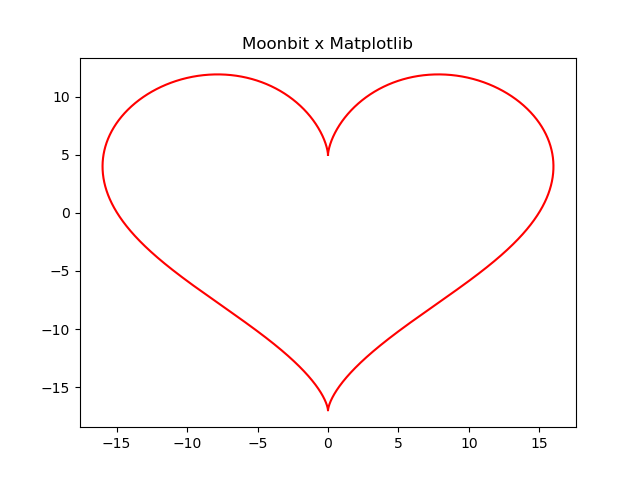
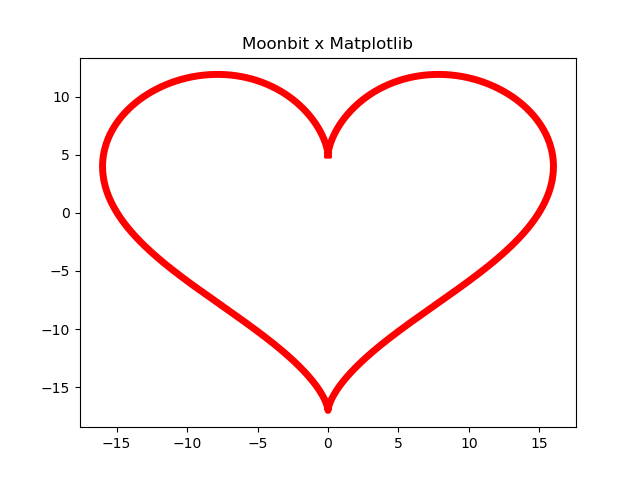
update README

diff --git a/README.md b/README.md
@@ -153,13 +153,19 @@ fn main {
   let xs = t.map(fn (t) {16.0 * @math.sin(t) * @math.sin(t) * @math.sin(t)})
   let ys = t.map(fn (t) {13.0 * @math.cos(t) - 5.0 * @math.cos(2.0 * t) - 2.0 * @math.cos(3.0 * t) - @math.cos(4.0 * t)})
 
-  @plt.plot(xs, ys)
+  @plt.plot(xs, ys, color=@plt.Red, linewidth=5)
   @plt.title("Moonbit x Matplotlib")
   @plt.show()
 }
 ```
 
-Running this Moonbit code will generate a beautiful heart-shaped plot, like this:
+Running this Moonbit code:
+
+```moonbit
+moon run main.mbt --target native
+```
+
+It will generate a beautiful heart-shaped plot, like this:
 
 ![example.png](./example.png)
 
@@ -352,13 +358,19 @@ fn main {
   let xs = t.map(fn (t) {16.0 * @math.sin(t) * @math.sin(t) * @math.sin(t)})
   let ys = t.map(fn (t) {13.0 * @math.cos(t) - 5.0 * @math.cos(2.0 * t) - 2.0 * @math.cos(3.0 * t) - @math.cos(4.0 * t)})
 
-  @plt.plot(xs, ys)
+  @plt.plot(xs, ys, color=@plt.Red, linewidth=5)
   @plt.title("Moonbit x Matplotlib")
   @plt.show()
 }
 ```
 
-运行这段 Moonbit 代码，你将会看到一个美丽的心形曲线图，就像这样：
+运行这段 Moonbit 代码，使用下面的命令：
+
+```moonbit
+moon run main.mbt --target native
+```
+
+你将会看到一个美丽的心形曲线图，就像这样：
 
 ![example.png](./example.png)
 
